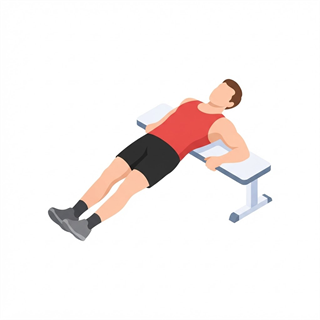
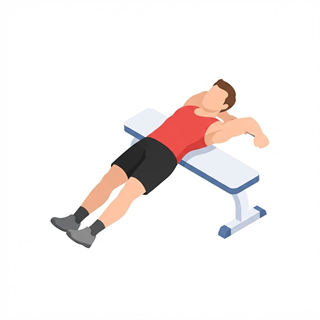
Swap in corrected pictures for Dragon Flag, Seated Cable Chest Press, Sissy Squat, SW cache v33
Old pictures remain in git history. Reverse Pec Deck retry rejected, keeps its current picture.

Claude-Session: https://claude.ai/code/session_016CU7SwqeNHNhFsYcS67XZu

Changed region(s): [[0.125, 0.25, 0.8438, 0.7812]]

diff --git a/sw.js b/sw.js
@@ -1,6 +1,6 @@
 /* VibeLift service worker — offline-first PWA.
    Bump CACHE_VERSION on any release to invalidate old caches. */
-const CACHE_VERSION = 'vibelift-v32';
+const CACHE_VERSION = 'vibelift-v33';
 const CORE_CACHE = CACHE_VERSION + '-core';
 const RUNTIME_CACHE = CACHE_VERSION + '-runtime';
 
